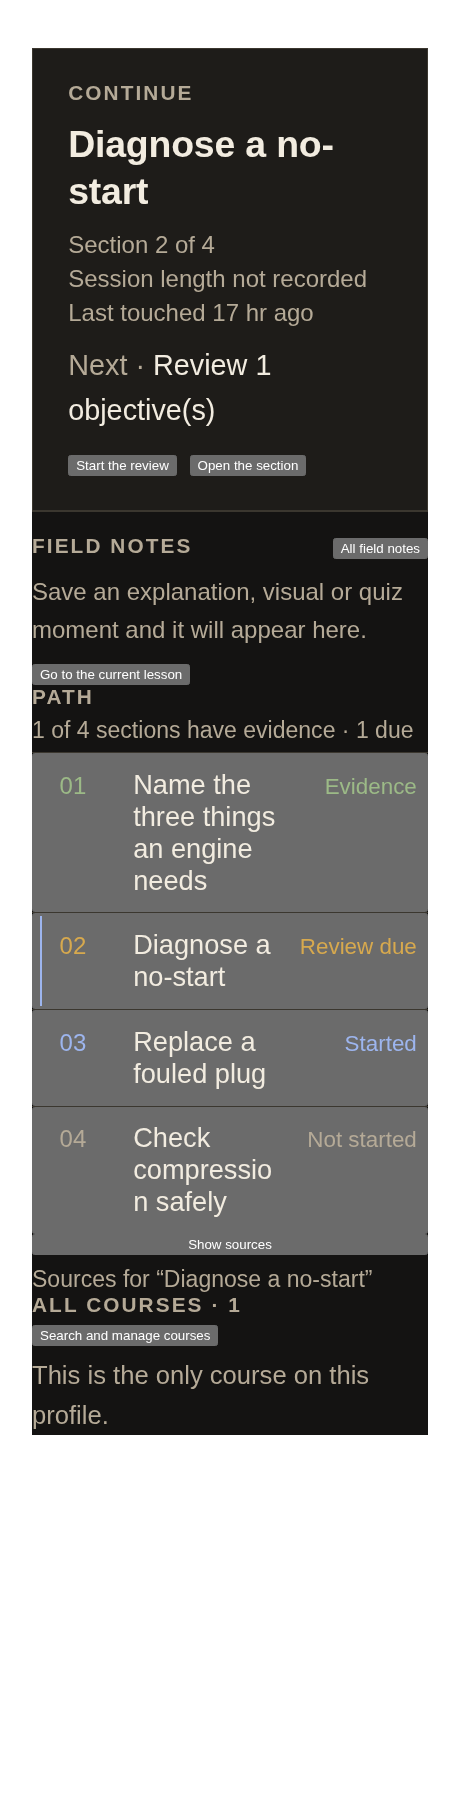
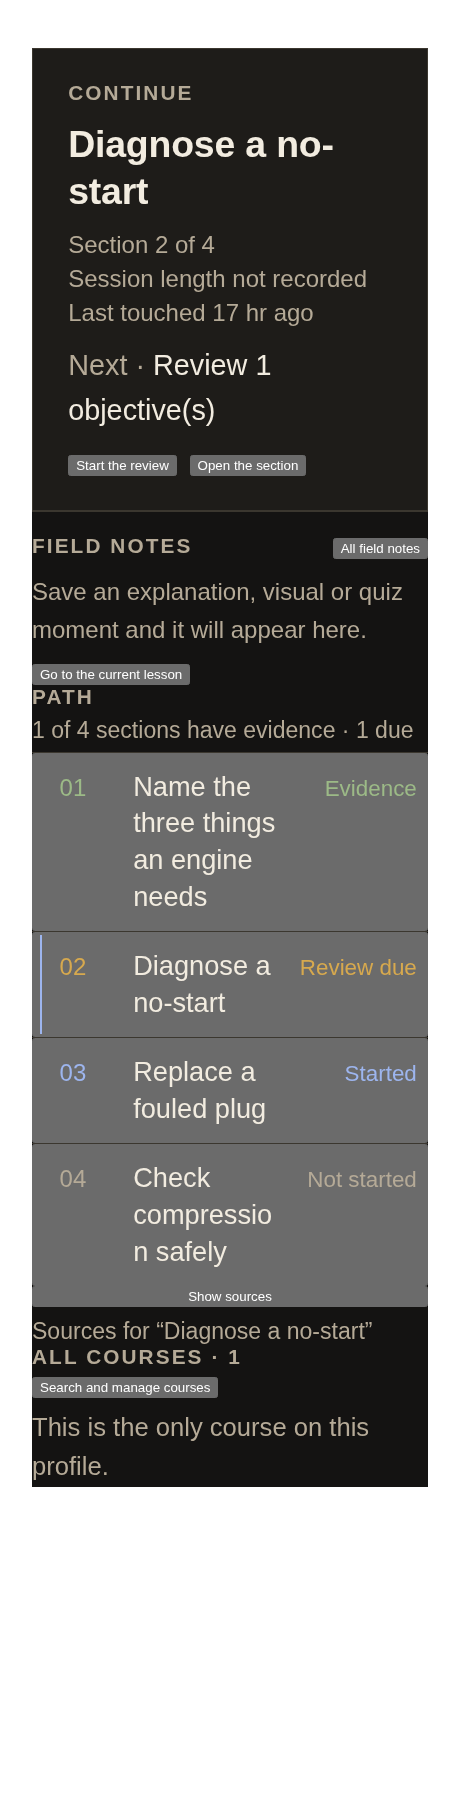
fix(desktop): keep Field Desk return in Courses and wrap path titles
LibraryView referenced onShowDesk without owning it, so opening Library from the destination control failed the plugin render with “onShowDesk is not defined.” The return control belongs to CoursesView; it moved there and Library no longer references the prop.

Path titles now wrap at split-screen widths instead of running under the state label. Added regression tests and refreshed the pinned M4 visual evidence.

diff --git a/desktop/plugin.js b/desktop/plugin.js
@@ -2160,7 +2160,13 @@ function PathPreview({ desk, onOpenSection }) {
                       children: String(objective.ordinal).padStart(2, '0')
                     }),
                     jsx('span', {
-                      style: { flex: '1 1 auto', minWidth: 0, overflowWrap: 'anywhere' },
+                      style: {
+                        flex: '1 1 8rem',
+                        minWidth: 0,
+                        overflowWrap: 'anywhere',
+                        whiteSpace: 'normal',
+                        lineHeight: 1.35
+                      },
                       children: objective.title
                     }),
                     jsx('span', {
@@ -3027,6 +3033,15 @@ function CoursesView({ implemented, onStartCreate, onStartSyllabus, createOpen, 
   return jsxs('div', {
     className: 'flex flex-col',
     children: [
+      onShowDesk
+        ? jsx(sdk.Button, {
+            className: 'mb-2 self-start',
+            variant: 'text',
+            size: 'sm',
+            onClick: onShowDesk,
+            children: 'Back to the Field Desk'
+          })
+        : null,
       jsxs('div', {
         className: 'mb-2 flex flex-wrap items-center justify-between gap-2',
         children: [
@@ -3397,15 +3412,6 @@ function LibraryView({ implemented, createOpen, onStartSyllabus, onStartImport }
   return jsxs('div', {
     className: 'flex flex-col',
     children: [
-      onShowDesk
-        ? jsx(sdk.Button, {
-            className: 'mb-2 self-start',
-            variant: 'text',
-            size: 'sm',
-            onClick: onShowDesk,
-            children: 'Back to the Field Desk'
-          })
-        : null,
       // Two import paths, side by side and named plainly. A syllabus is not a pack, so it is
       // never nested behind the pack flow.
       jsx(SyllabusEntry, { onStartSyllabus, onStartImport }),

diff --git a/tests/test_desktop_field_desk.py b/tests/test_desktop_field_desk.py
@@ -530,6 +530,20 @@ class FieldDeskRenderTest(unittest.TestCase):
         self.assertIn("+2 more courses on this profile", html)
 
     # -- the module's shape -----------------------------------------------------------------
+    def test_path_titles_wrap_without_colliding_with_the_state_label(self) -> None:
+        source = PLUGIN_JS.read_text(encoding="utf-8")
+        path = source.split("function PathPreview(", 1)[1].split("function SourcesDrawer(", 1)[0]
+        self.assertIn("whiteSpace: 'normal'", path)
+        self.assertIn("flex: '1 1 8rem'", path)
+
+    def test_the_field_desk_return_is_on_the_courses_list_not_the_library(self) -> None:
+        source = PLUGIN_JS.read_text(encoding="utf-8")
+        courses = source.split("function CoursesView(", 1)[1].split("\nfunction sourceLabel(", 1)[0]
+        library = source.split("function LibraryView(", 1)[1].split("\nfunction planTimingCopy(", 1)[0]
+        self.assertIn("Back to the Field Desk", courses)
+        self.assertNotIn("Back to the Field Desk", library)
+        self.assertNotIn("onShowDesk", library)
+
     def test_the_desk_introduces_no_second_chat_or_markdown_surface(self) -> None:
         source = PLUGIN_JS.read_text(encoding="utf-8")
         desk = source.split("// ══ M2 — the Field Desk home", 1)[1].split("function CoursesView(", 1)[0]
